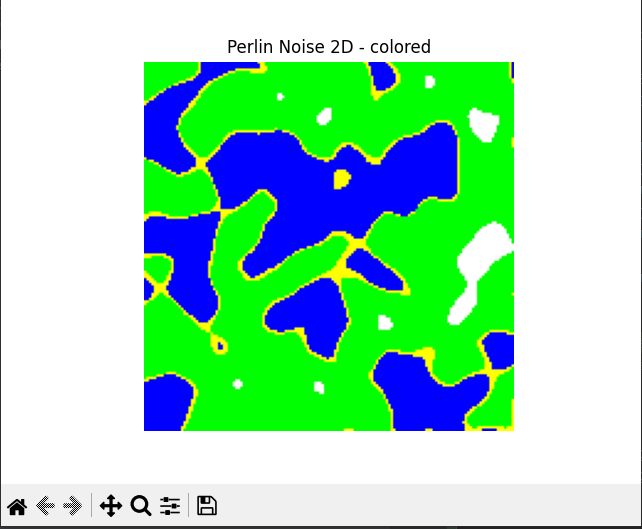
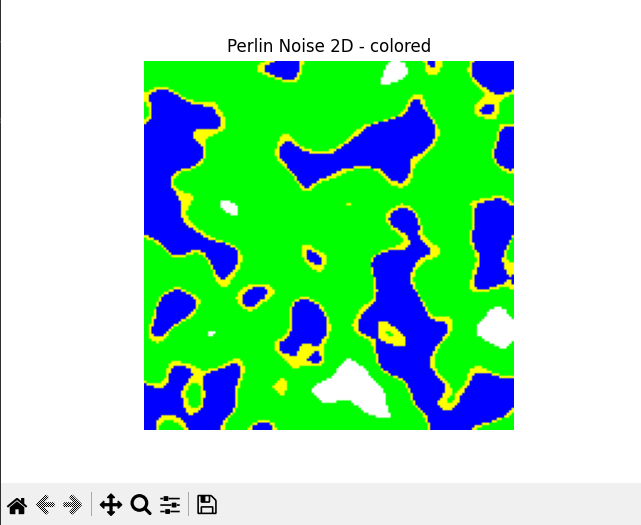
fixed bug

Changed region(s): [[0.2184, 0.061, 0.8112, 0.8229], [0.0, 0.0, 1.0, 1.0], [0.468, 0.1829, 0.5304, 0.2438]]

diff --git a/main.py b/main.py
@@ -4,7 +4,7 @@ import matplotlib.pyplot as plt
 
 
 def hashCoordinates(x: int, y: int):
-    MAX_COORDINATE_Y = 666013 # y va lua valori in intervalul [0, MAX_COORDINATE_Y - 1]
+    MAX_COORDINATE_Y = 666017 # y va lua valori in intervalul [0, MAX_COORDINATE_Y - 1]
     return x * MAX_COORDINATE_Y + y
 
 
@@ -25,7 +25,9 @@ def calculateGradient(seed: int):
     )
 
     gradient = possible_gradients[np.random.randint(0, len(possible_gradients))]
-    #gradient = np.random.rand(2)
+
+    # method 2, random between [-1.0, 1.0]
+    gradient = np.random.rand(2) * 2 - 1
 
     # normalize (doar din cauza ca avem vectori nenormalizati pe diagonale, ca e mai usor de vizualizat asa)
     if np.linalg.norm(gradient) != 0.0:
